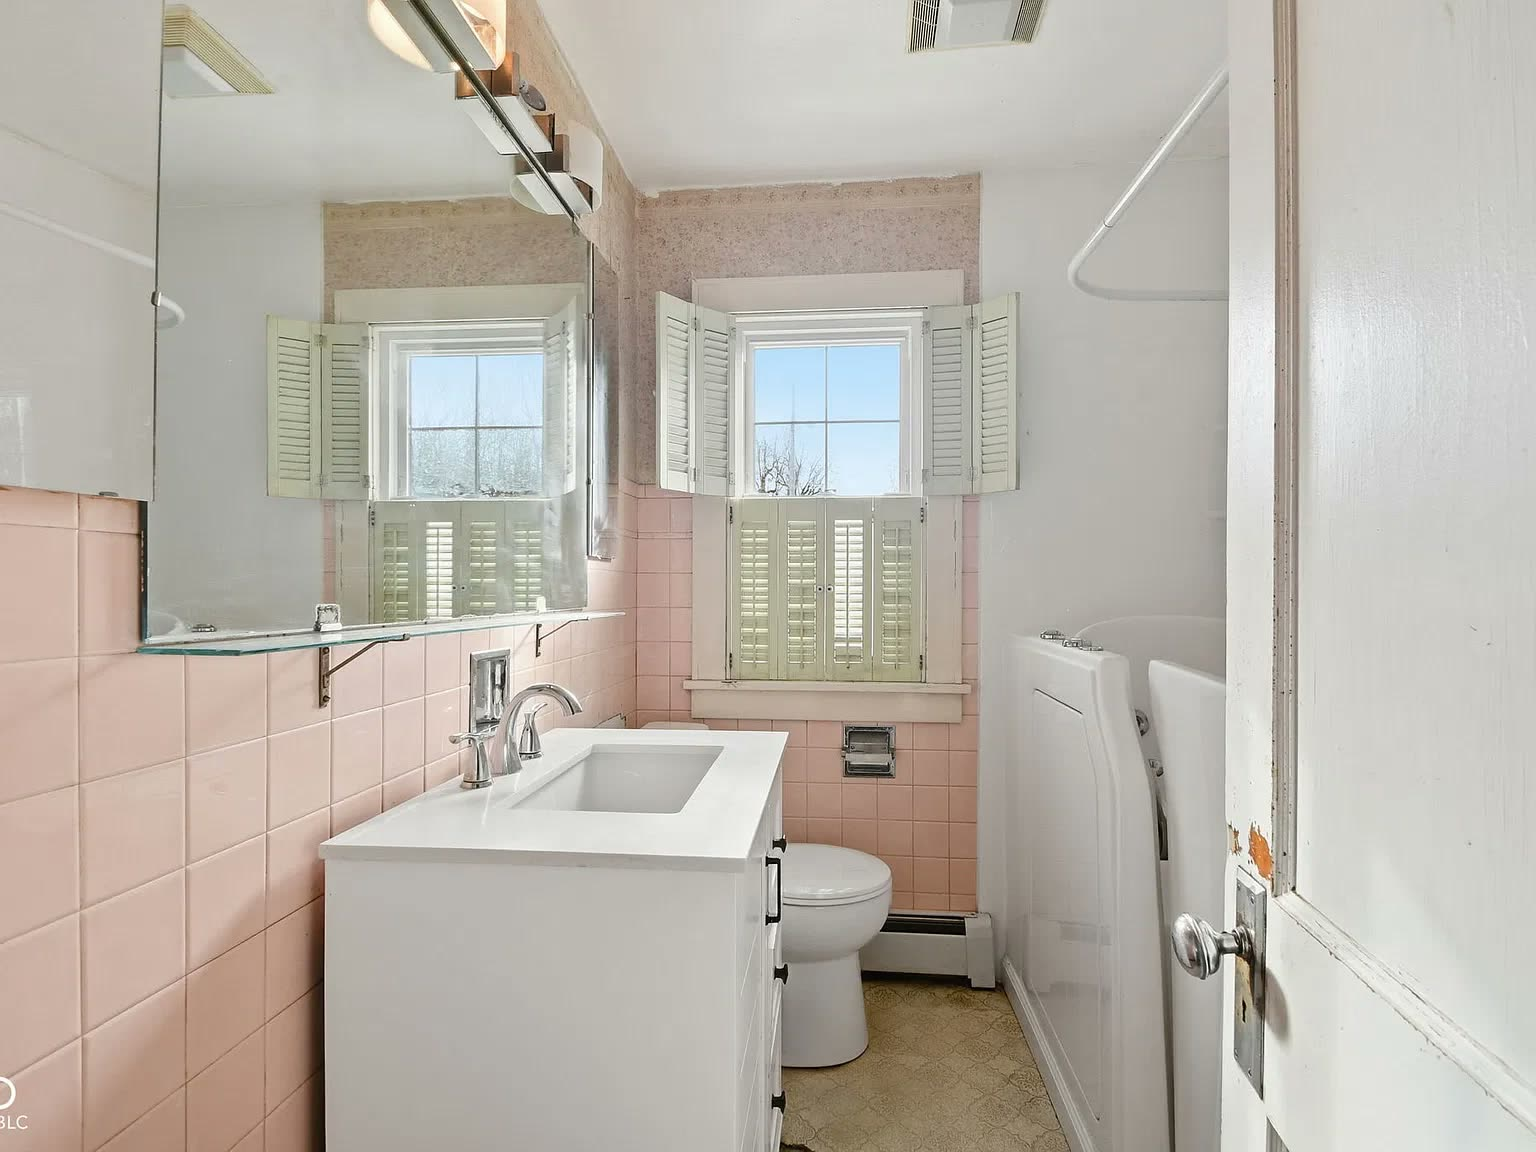
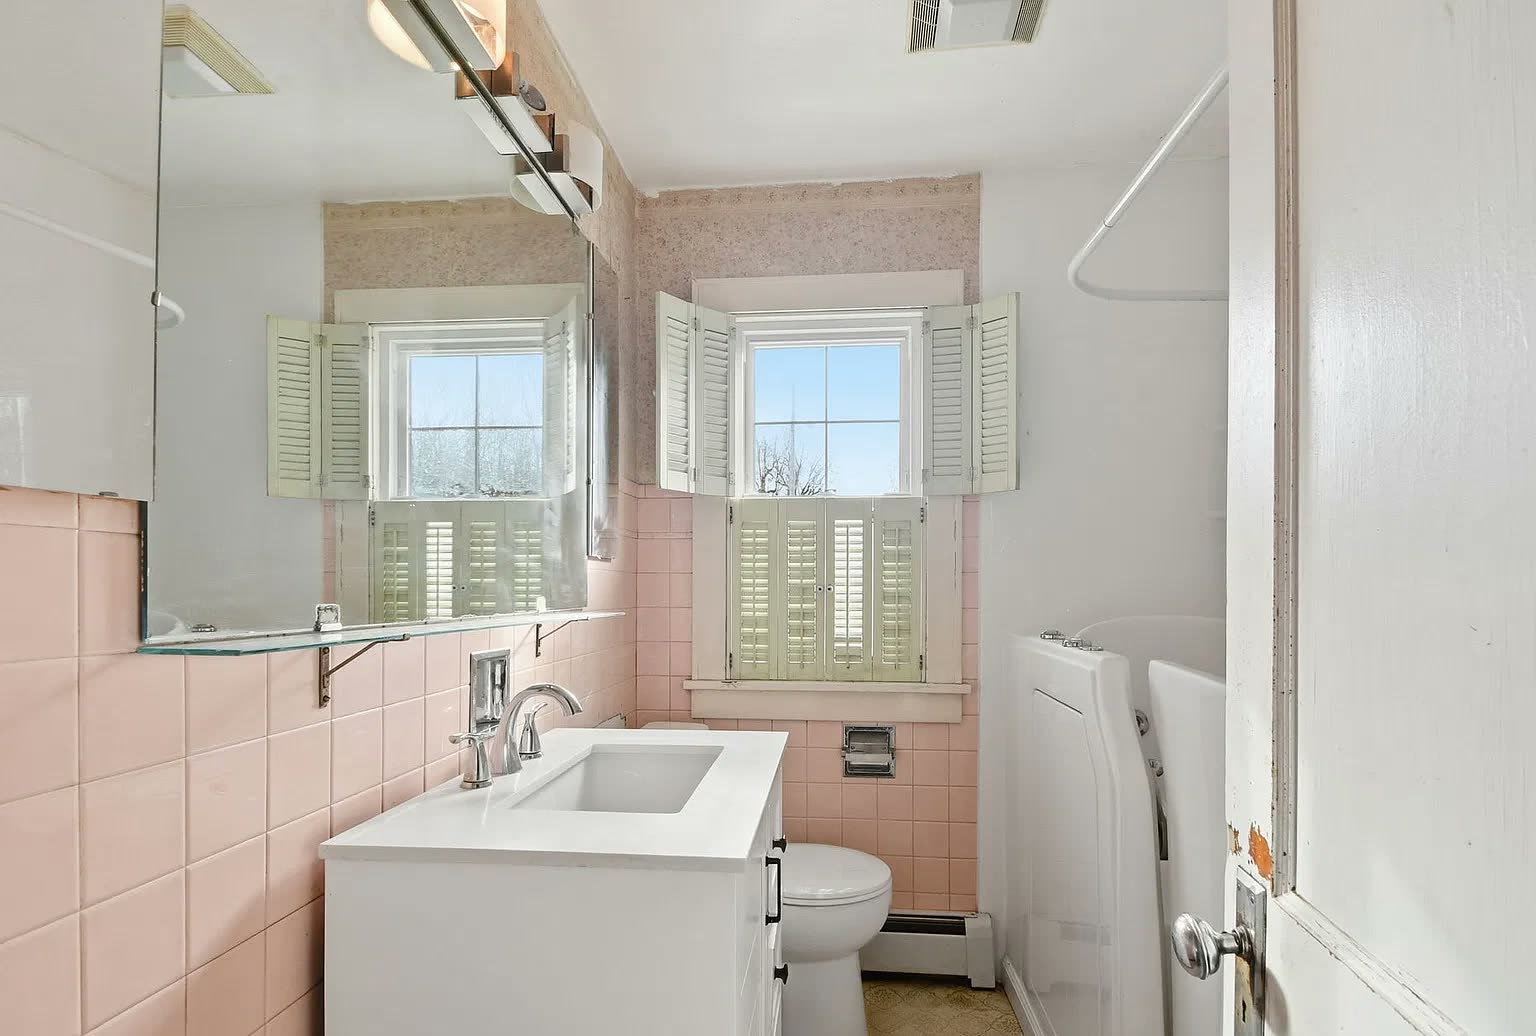
Add 2221 Central Ave photos; crop MLS watermark from 9th St and 2221 photos

diff --git a/preview/homes/2221-central/index.html b/preview/homes/2221-central/index.html
@@ -10,6 +10,7 @@
 <meta property="og:title" content="Phoenix Central · Anderson | Sober Living for Men in Anderson, Indiana">
 <meta property="og:description" content="Phoenix Central · Anderson is a structured sober living home for men in Anderson, Indiana. Furnished rooms, house leadership and peer support. Check bed availability.">
 <meta property="og:site_name" content="Phoenix Recovery Network">
+<meta property="og:image" content="https://www.phoenixrecoverynetwork.com/assets/homes/2221-central/front.jpg">
 <meta name="twitter:card" content="summary_large_image">
 <meta name="theme-color" content="#0D0D3F">
 <link rel="icon" type="image/png" sizes="32x32" href="../../assets/img/favicon-32.png">
@@ -36,7 +37,7 @@
   <div class="beds tbc"><span class="dot"></span>Call for current availability</div>
 </div></section>
 
-<section class="gallery" aria-label="Photos"><div class="grid"><div class="tile big empty"><svg viewBox="0 0 24 24" fill="none" stroke="currentColor" stroke-width="1.5" aria-hidden="true"><rect x="3" y="4" width="18" height="16" rx="2"/><circle cx="9" cy="10" r="2"/><path d="m21 16-5-5-7 7"/></svg><span>Front of the house · photo coming soon</span></div><div class="tile empty"><svg viewBox="0 0 24 24" fill="none" stroke="currentColor" stroke-width="1.5" aria-hidden="true"><rect x="3" y="4" width="18" height="16" rx="2"/><circle cx="9" cy="10" r="2"/><path d="m21 16-5-5-7 7"/></svg><span>Living room · photo coming soon</span></div><div class="tile empty"><svg viewBox="0 0 24 24" fill="none" stroke="currentColor" stroke-width="1.5" aria-hidden="true"><rect x="3" y="4" width="18" height="16" rx="2"/><circle cx="9" cy="10" r="2"/><path d="m21 16-5-5-7 7"/></svg><span>Kitchen · photo coming soon</span></div><div class="tile empty"><svg viewBox="0 0 24 24" fill="none" stroke="currentColor" stroke-width="1.5" aria-hidden="true"><rect x="3" y="4" width="18" height="16" rx="2"/><circle cx="9" cy="10" r="2"/><path d="m21 16-5-5-7 7"/></svg><span>Bedroom · photo coming soon</span></div><div class="tile empty"><svg viewBox="0 0 24 24" fill="none" stroke="currentColor" stroke-width="1.5" aria-hidden="true"><rect x="3" y="4" width="18" height="16" rx="2"/><circle cx="9" cy="10" r="2"/><path d="m21 16-5-5-7 7"/></svg><span>Porch or backyard · photo coming soon</span></div></div></section>
+<section class="gallery" aria-label="Photos"><div class="grid"><div class="tile big"><img src="../../assets/homes/2221-central/front.jpg" alt="Front of the house, Phoenix [Central · Anderson]"></div><div class="tile"><img src="../../assets/homes/2221-central/living.jpg" alt="Living room, Phoenix [Central · Anderson]" loading="lazy"></div><div class="tile"><img src="../../assets/homes/2221-central/kitchen.jpg" alt="Kitchen, Phoenix [Central · Anderson]" loading="lazy"></div><div class="tile"><img src="../../assets/homes/2221-central/bath.jpg" alt="Bathroom, Phoenix [Central · Anderson]" loading="lazy"></div><div class="tile"><img src="../../assets/homes/2221-central/backyard.jpg" alt="Back yard, Phoenix [Central · Anderson]" loading="lazy"></div></div></section>
 
 <section id="house" class="wrap" style="padding-top:clamp(48px,6vw,80px)"><div class="glance">
   <div><div class="k">Serves</div><div class="v">Men in recovery</div><div class="sub">Adults 18 and over</div></div><div><div class="k">Home type</div><div class="v">Structured sober living</div><div class="sub">Monitored residence</div></div><div><div class="k">Capacity</div><div class="v"><span class="tbc">[8]</span> residents</div><div class="sub">Shared and single rooms</div></div><div><div class="k">Rent</div><div class="v">$<span class="tbc">[XXX]</span> per week</div><div class="sub">Paid directly</div></div>

diff --git a/preview/homes/index.html b/preview/homes/index.html
@@ -44,7 +44,7 @@
 <div class="meta"><div><div class="city">Anderson, Indiana</div><div class="name">Phoenix <span class="tbc">[8th Street]</span></div></div><div class="status ">Ask about openings</div></div>
 <div class="go">Explore the house<span>→</span></div></a><a class="home-feature" href="../homes/1921-w-9th/" data-reveal><div class="photo"><img src="../assets/homes/1921-w-9th/front.jpg" alt="Front of the house, Phoenix [9th Street]" loading="lazy"></div>
 <div class="meta"><div><div class="city"><span class="tbc">[Anderson]</span>, Indiana</div><div class="name">Phoenix <span class="tbc">[9th Street]</span></div></div><div class="status ">Ask about openings</div></div>
-<div class="go">Explore the house<span>→</span></div></a><a class="home-feature" href="../homes/2221-central/" data-reveal><div class="photo empty">Photos coming soon</div>
+<div class="go">Explore the house<span>→</span></div></a><a class="home-feature" href="../homes/2221-central/" data-reveal><div class="photo"><img src="../assets/homes/2221-central/front.jpg" alt="Front of the house, Phoenix [Central · Anderson]" loading="lazy"></div>
 <div class="meta"><div><div class="city">Anderson, Indiana</div><div class="name">Phoenix <span class="tbc">[Central · Anderson]</span></div></div><div class="status ">Ask about openings</div></div>
 <div class="go">Explore the house<span>→</span></div></a></div>
 </div></section>

diff --git a/tools/site-data.js b/tools/site-data.js
@@ -126,7 +126,9 @@ const homes = [
   { slug: '1921-w-9th',     name: 'Phoenix [9th Street]', city: '[Anderson]',
     photos: [['front.jpg','Front of the house'],['kitchen.jpg','Kitchen'],['living.jpg','Living room'],['bath.jpg','Bathroom'],['kitchen-2.jpg','Kitchen sink and window']],
     video: null },
-  { slug: '2221-central',   name: 'Phoenix [Central · Anderson]', city: 'Anderson', photos: [], video: null }
+  { slug: '2221-central',   name: 'Phoenix [Central · Anderson]', city: 'Anderson', 
+    photos: [['front.jpg','Front of the house'],['living.jpg','Living room'],['kitchen.jpg','Kitchen'],['bath.jpg','Bathroom'],['backyard.jpg','Back yard']],
+    video: null }
 ];
 
 module.exports = { PHONE, EMAIL, APPLY_URL, FORM_ENDPOINT, network, homeDefaults, homes };
